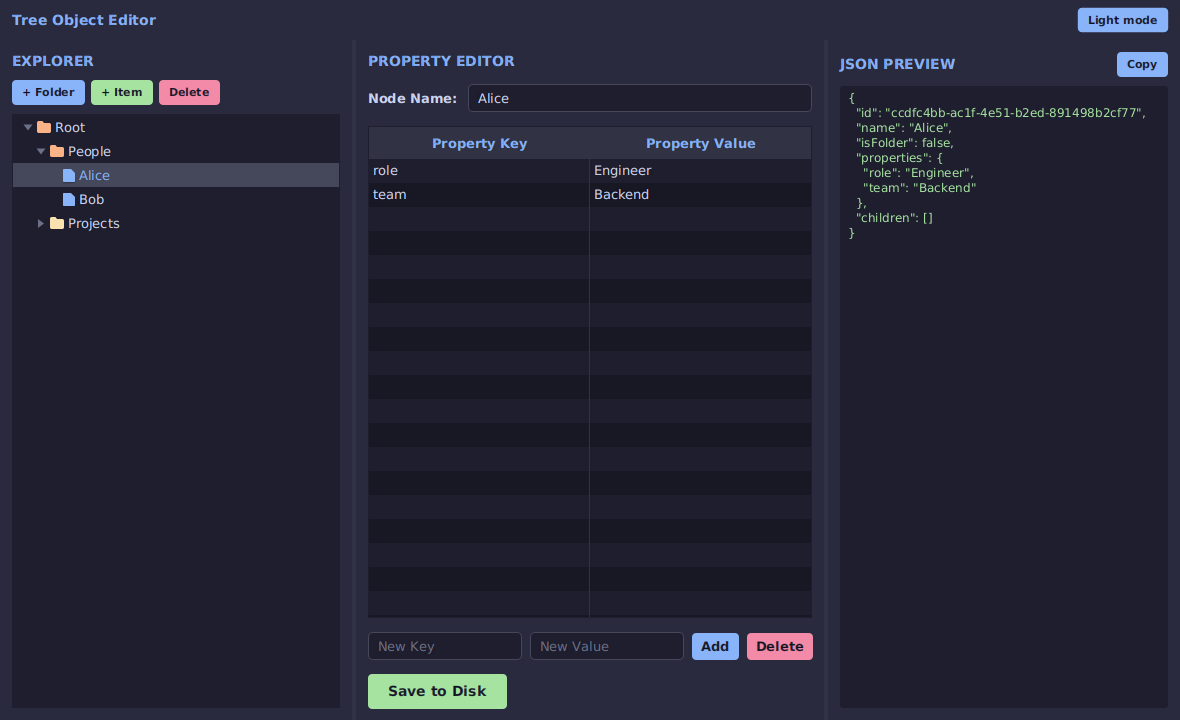
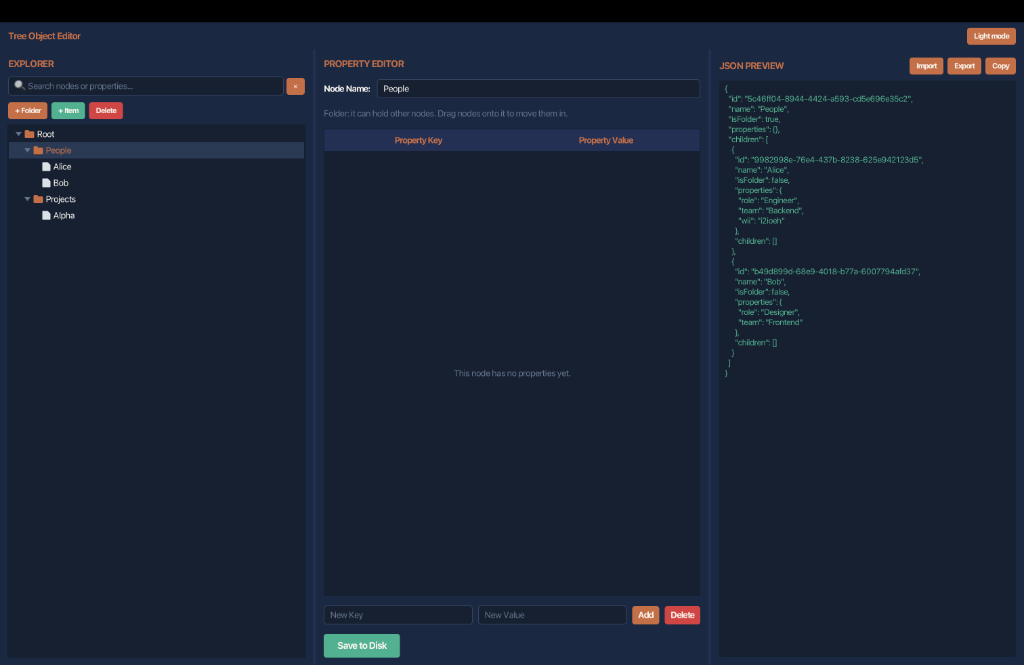
docs: update screenshots and documentation with new search and import/export features

diff --git a/README.md b/README.md
@@ -33,6 +33,9 @@ The window has three panels:
 
 ## Features
 
+- **Real-Time Search & Filter:** Quick search bar in the Explorer panel to filter and auto-expand tree nodes matching names or property keys/values in real time.
+- **JSON Import & Export:** Export your tree or any sub-tree to a `.json` file, or import external JSON files with choices to replace the tree or insert as child nodes.
+- **Animated Copy Confirmation:** One-click JSON copying with instant visual feedback (`Copied! ✓`).
 - **Drag and drop:** Drag a node onto a folder to move it inside. Drop it on the top or bottom edge of a row to put it in that position. Drops that would break the tree are blocked: you can't move the root, drop a folder into itself or one of its own children, or drop something inside an item.
 - **Right-click menu:** New Folder, New Item, Rename, Duplicate, Delete, Expand All and Collapse All.
 - **Light and dark theme:** Switch with the button in the top right, or press `Ctrl+T`. The app remembers your choice.
@@ -73,6 +76,13 @@ Running the main class with the green Run button can fail with *"JavaFX runtime 
 
 ## How to Use It
 
+**Search nodes**
+- Type in the search box above the Explorer to filter nodes and properties live. Click **✕** to clear.
+
+**Import / Export JSON**
+- Click **Export** in the JSON Preview header to save the current subtree as a `.json` file.
+- Click **Import** to select any `.json` file and choose whether to replace the full tree or insert as a child node.
+
 **Add nodes**
 1. Select a folder in the Explorer, or select an item to add next to it.
 2. Click **+ Folder** or **+ Item** (or right-click and choose **New Folder** / **New Item**).
@@ -107,7 +117,7 @@ The project follows a Model-View-Controller layout.
 CSC360-Group7/
 ├── pom.xml
 ├── README.md
-├── docs/screenshots/                   # UI screenshots (dark and light)
+├── docs/screenshots/                   # UI screenshots (dark, light, search, copy feedback)
 └── src/main/
     ├── java/com/treeapp/
     │   ├── Main.java                   # Launcher (avoids the JavaFX module-path error)
@@ -118,12 +128,13 @@ CSC360-Group7/
     │   │   ├── TreeNode.java           # One node: id, name, folder flag, children, properties
     │   │   └── PropertyEntry.java      # One row of the property table
     │   ├── view/
-    │   │   ├── ExplorerPanel.java      # Tree, toolbar, right-click menu, drag and drop
+    │   │   ├── ExplorerPanel.java      # Tree, search bar, toolbar, right-click menu, drag and drop
     │   │   ├── PropertyEditorPanel.java
-    │   │   └── JsonPreviewPanel.java
+    │   │   └── JsonPreviewPanel.java   # JSON view with Copy, Import, and Export actions
     │   └── util/
     │       ├── PersistenceUtil.java    # Saves and loads ~/tree_data.ser
     │       ├── JsonFormatter.java      # Turns a node into JSON text
+    │       ├── JsonParser.java         # Parses JSON files into TreeNode models
     │       └── ThemeManager.java       # Switches and remembers the theme
     └── resources/styles/
         ├── dark-theme.css
